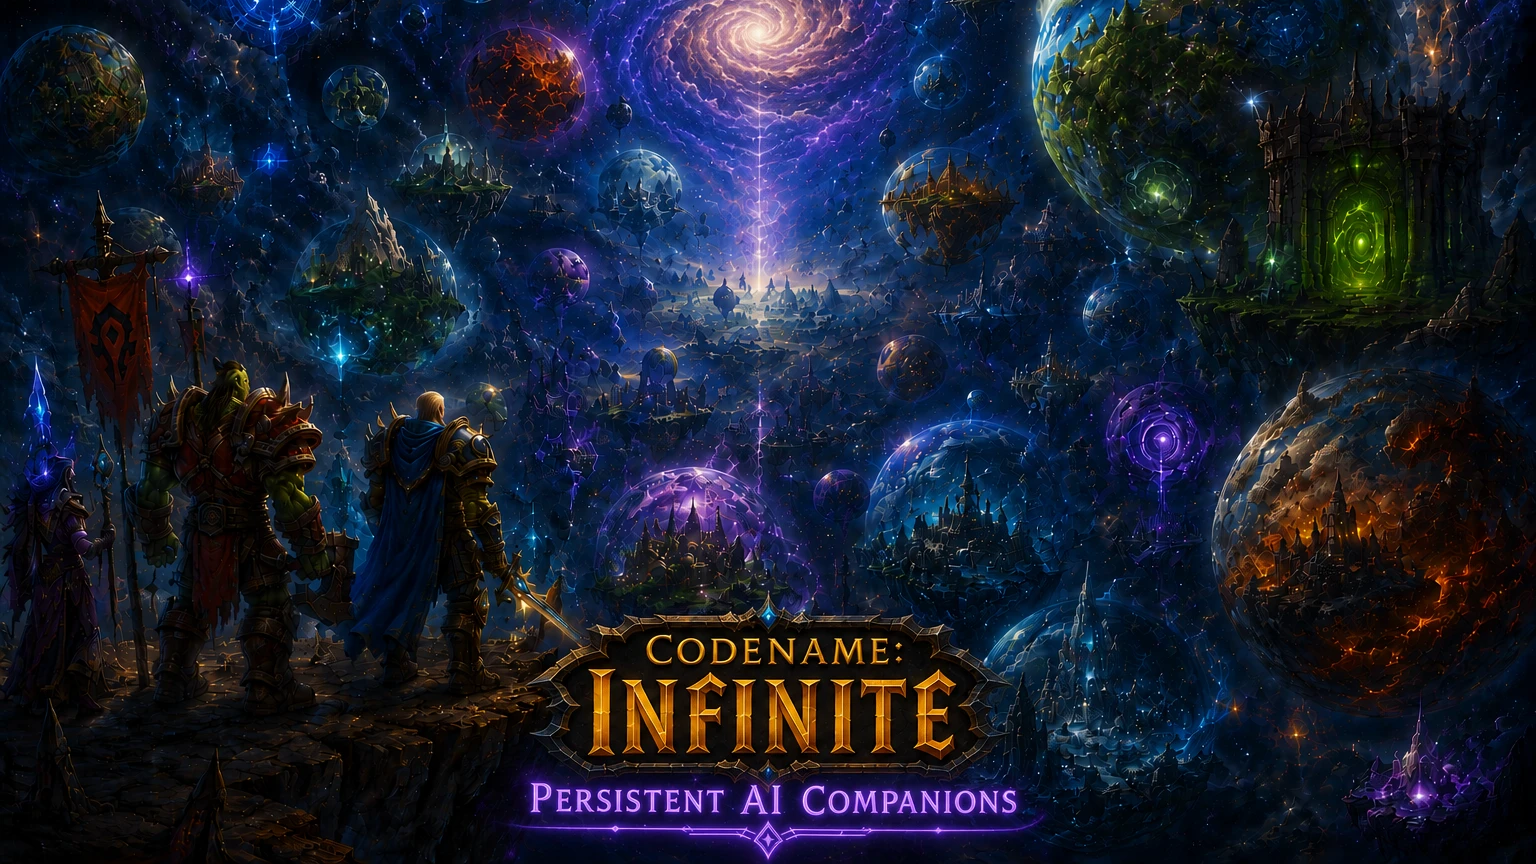
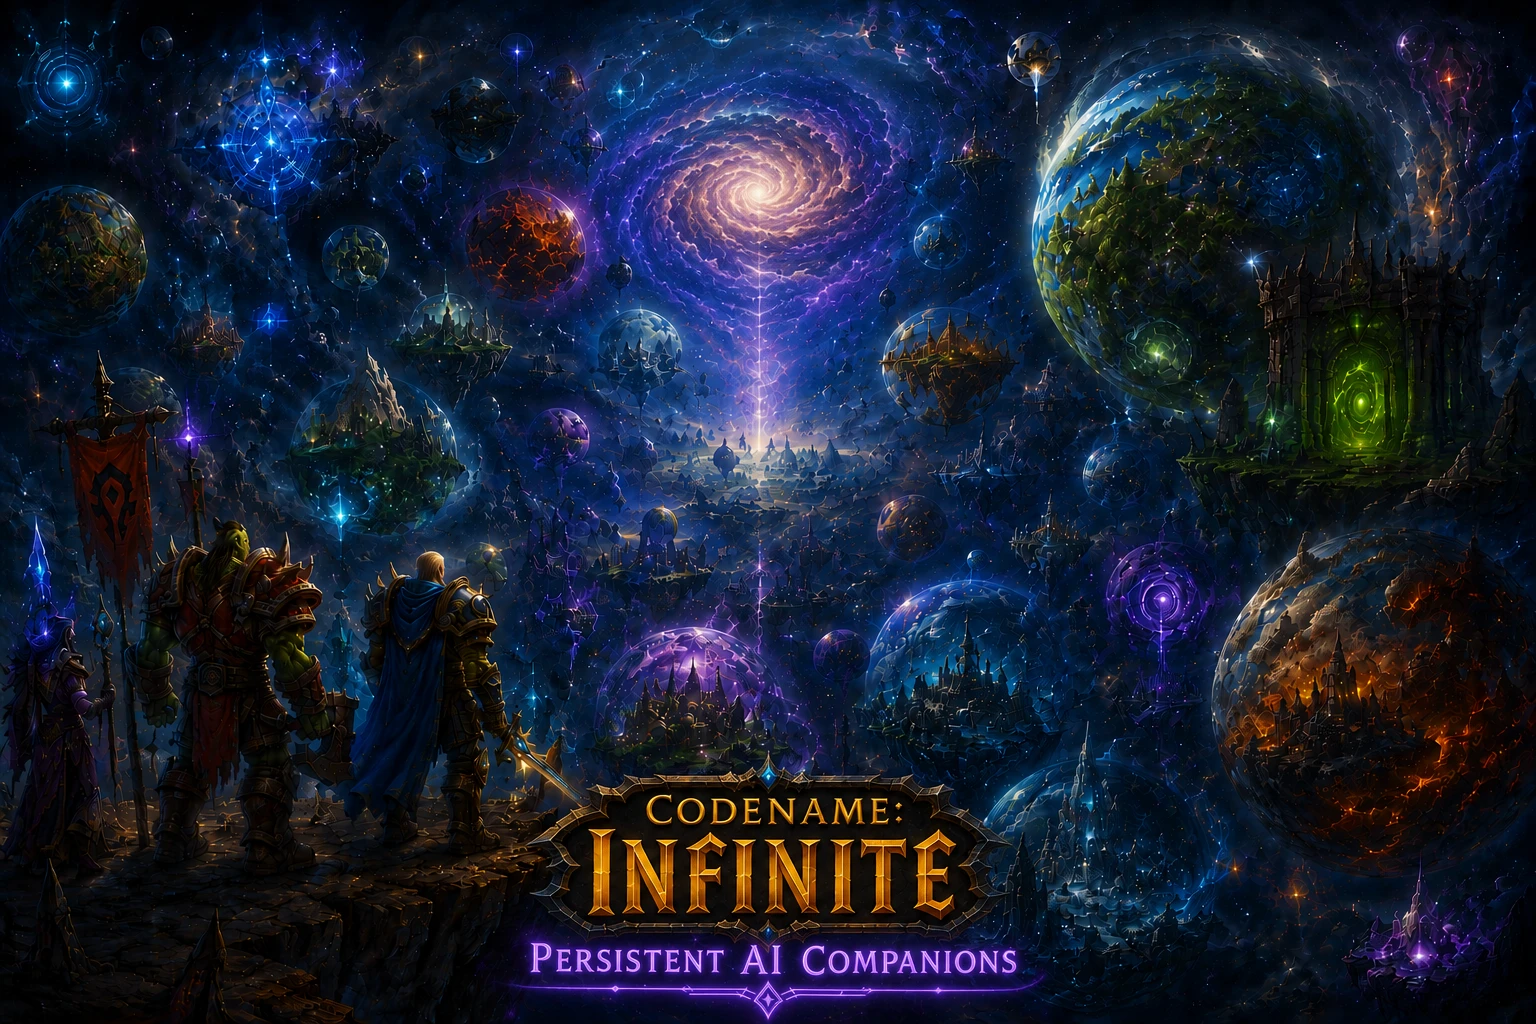
Resize window to match the background art's aspect ratio exactly
900x600 matches the source image's 3:2 ratio, so it renders full-bleed with
no cropping and no letterbox bars, instead of the earlier bottom-anchored crop.

diff --git a/MainWindow.xaml b/MainWindow.xaml
@@ -2,7 +2,7 @@
         xmlns="http://schemas.microsoft.com/winfx/2006/xaml/presentation"
         xmlns:x="http://schemas.microsoft.com/winfx/2006/xaml"
         Title="CodenameInfinite Launcher"
-        Width="900" Height="506"
+        Width="900" Height="600"
         WindowStyle="None"
         ResizeMode="NoResize"
         WindowStartupLocation="CenterScreen"
